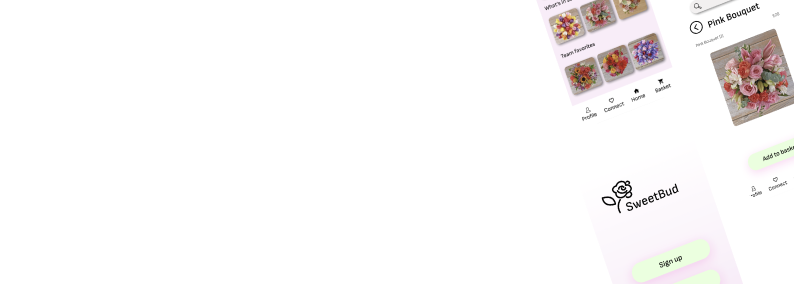
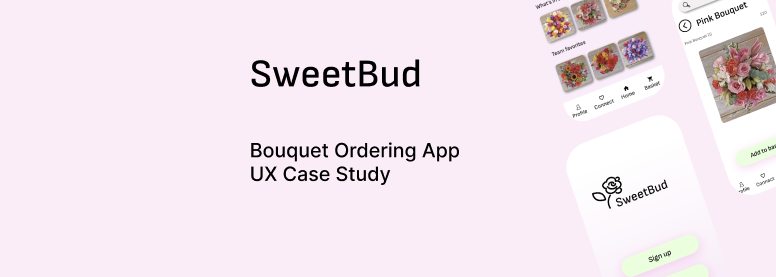
more work done

diff --git a/app/portfolio/sweetbud-case-study/page.jsx b/app/portfolio/sweetbud-case-study/page.jsx
@@ -6,7 +6,18 @@ import ProjectPage from "../../components/projectPage/projectPage";
 function sweetBudCaseStudy() {
   return (
     <div className="container px-4 sm:px-8 max-w-4xl mx-auto">
-      <img src="" alt="header" />
+      <div className="mx-auto w-full py-4">
+        <div className="max-w-screen-lg w-full">
+          <Image
+            src="/images/SweetbudHeader.png"
+            alt="sweetbudheader"
+            width={1200}
+            height={800}
+            className="object-cover w-full h-full"
+          />
+        </div>
+      </div>
+
       <h2 className="font text-2xl text-blue-600 font-semibold pb-4">
         The Project
       </h2>
@@ -108,6 +119,12 @@ function sweetBudCaseStudy() {
       </div>
 
       <h2 className="font text-2xl text-blue-600 font-semibold pb-4">Define</h2>
+      <p className="pb-4 text-lg">
+        AJ is a wedding planner who faces challenges in the current flower
+        ordering process, as it lacks clarity and customization options,
+        prompting the need for a more user-friendly system that ensures clear
+        communication and reliable order fulfillment.
+      </p>
       <h2 className="font text-2xl text-blue-600 font-semibold pb-4">Ideate</h2>
       <p className="font-bold pb-2">Low Fidelity Wireframe</p>
       <div className="grid grid-cols-1 sm:grid-cols-5 gap-4 w-full pb-4">
@@ -147,7 +164,34 @@ function sweetBudCaseStudy() {
           height="200"
         />
       </div>
-      <p className="font-bold pb-2">Feedback</p>
+      <p className="font-bold pb-2">Low Fidelity Prototype</p>
+      <div className="grid grid-cols-1 sm:grid-cols-3 gap-10 w-full pb-4 mx-auto">
+        <Image
+          src="/images/SBLowFidel1.png"
+          alt="Image 1"
+          className="max-w-1/5 mx-auto"
+          width="200"
+          height="200"
+        />
+        <Image
+          src="/images/SBLowFidel2.png"
+          alt="Image 2"
+          className="max-w-1/5 mx-auto"
+          width="200"
+          height="200"
+        />
+        <Image
+          src="/images/SBLowFidel3.png"
+          alt="Image 3"
+          className="max-w-1/5 mx-auto"
+          width="200"
+          height="200"
+        />
+      </div>
+
+      <p className="font-bold py-4">
+        LoFi Prototype Testing and Synthesizing Results
+      </p>
       <div className="w-full aspect-video relative mb-4">
         <Image
           src="/images/feedbackStickies.png"
@@ -157,8 +201,39 @@ function sweetBudCaseStudy() {
         />
       </div>
       <h2 className="font text-2xl text-blue-600 font-semibold pb-4">
+        Prototype
+      </h2>
+      <p className="pb-4">
+        With the results of the unmoderated test, I was able to go back to the
+        drawing board and iterate of my designs to improve the user experience
+      </p>
+      <div className="grid grid-cols-1 sm:grid-cols-3 gap-10 w-full pb-4 mx-auto">
+        <Image
+          src="/images/SBProto1.png"
+          alt="Image 1"
+          className="max-w-1/5 mx-auto"
+          width="200"
+          height="200"
+        />
+        <Image
+          src="/images/SBProto2.png"
+          alt="Image 2"
+          className="max-w-1/5 mx-auto"
+          width="200"
+          height="200"
+        />
+        <Image
+          src="/images/SBProto3.png"
+          alt="Image 3"
+          className="max-w-1/5 mx-auto"
+          width="200"
+          height="200"
+        />
+      </div>
+      <h2 className="font text-2xl text-blue-600 font-semibold pb-4">
         Accessibility
       </h2>
+
       <div className="w-full relative">
         <Image
           src="/images/plantsInApp.png"
